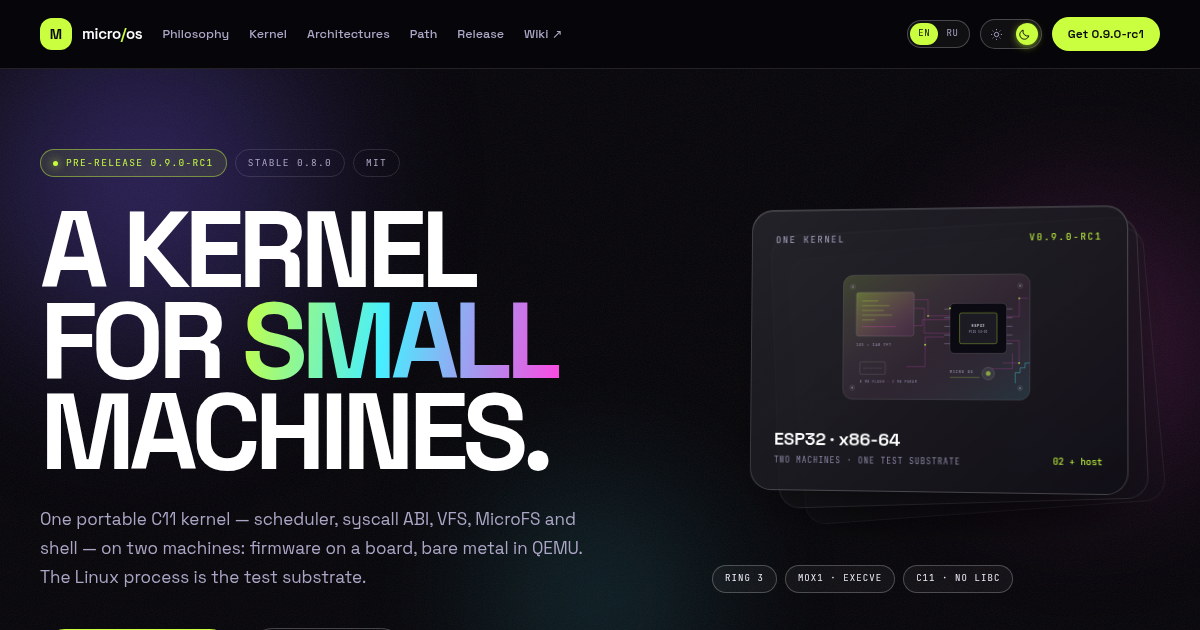
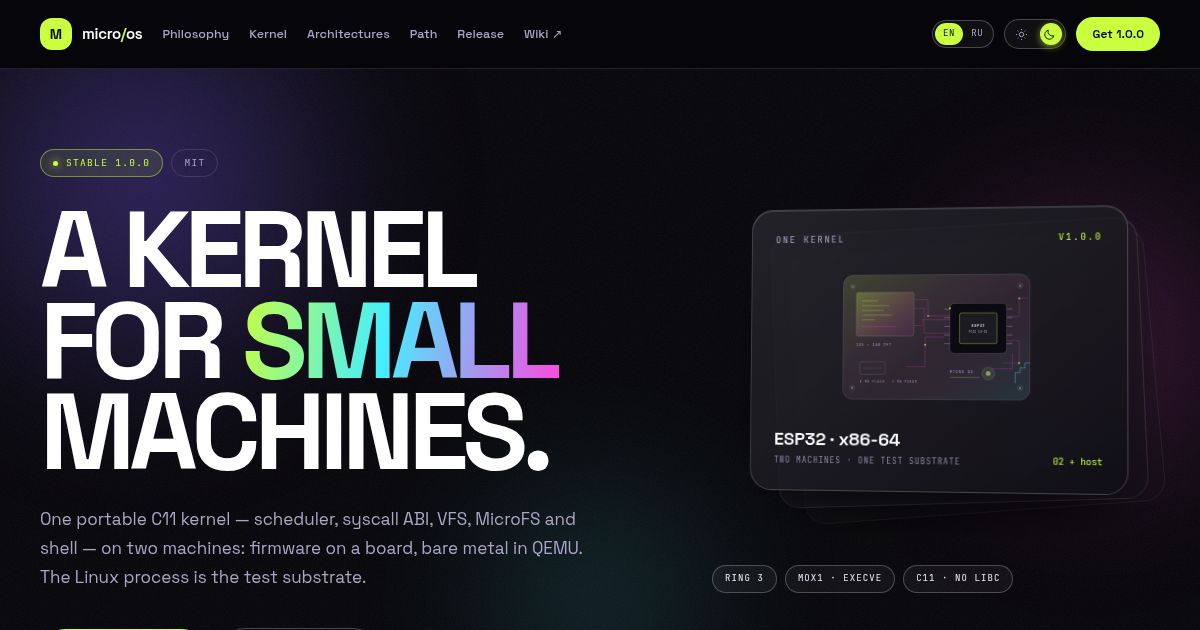
site: publish v1.0.0
The first major replaces the 0.9 candidate: stable badge, no last-stable
chip, 22 Nov 2026, the seven release assets including the signature and
public key, and notes about frozen contracts, the two machines, signed
images and the 600-second sessions.

Timeline 1.0 becomes a stable milestone. What's next is 1.0.x (safe
update with rollback, SMP, progs and mmap on the ESP32, /etc settings)
and 2.0 (the user-managed machine). The x86-64 card finally drops the
'no higher half' limit and lists it as shipped.

diff --git a/src/i18n.tsx b/src/i18n.tsx
@@ -16,7 +16,7 @@ const en = {
   meta: {
     title: "Micro OS — a kernel for small machines",
     description:
-      "A portable C11 kernel for small machines: scheduler, syscall ABI, VFS, MicroFS and a shell on ESP32 and bare-metal x86-64, with a Linux-process test substrate. Latest: v0.9.0-rc1.",
+      "A portable C11 kernel for small machines: scheduler, syscall ABI, VFS, MicroFS and a shell on ESP32 and bare-metal x86-64, with a Linux-process test substrate. Latest: v1.0.0.",
     ogTitle: "Micro OS — a kernel for small machines",
     ogDescription:
       "One portable C11 kernel. The same scheduler, VFS and shell on an ESP32 board and bare-metal x86-64; the Linux process is the test substrate.",
@@ -41,7 +41,6 @@ const en = {
     stackLabel: "Two machines and a test substrate: ESP32, x86-64, host",
   },
   hero: {
-    statusPre: "pre-release",
     statusStable: "stable",
     statusLicense: "MIT",
     titleA: "A kernel",
@@ -167,6 +166,7 @@ const en = {
         ],
         works: [
           "IDT/PIT, VGA text, PS/2 and COM1",
+          "higher half at 0xFFFFFFFF80000000",
           "MicroFS on a disk that survives a reset",
           "execve, page tables, copy-on-write fork and EFAULT",
           "NX/W^X: text RX, data and stacks NX",
@@ -174,7 +174,7 @@ const en = {
           "ARP/IPv4/ICMP/UDP/TCP, a DNS cache and httpd",
         ],
         limits: [
-          "no higher half, SMEP/SMAP or PCID yet",
+          "no SMEP/SMAP or PCID yet",
           "no SMP/APIC: one core for now",
           "no TLS: LAN only",
           "the kernel has no libc under it, by design",
@@ -265,10 +265,10 @@ const en = {
       },
       {
         version: "1.0",
-        title: "The gate",
-        body: "Plan: an image signature checked by the boot, the higher half, a correct single-core kernel and four weeks of soak; migration of 0.x volumes and /etc. After 1.0: a safe update with rollback, SMP, progs and mmap on the ESP32.",
-        tag: "plan",
-        planned: true,
+        title: "The first major",
+        body: "Contracts frozen, two machines, signed images with SHA-256 and Ed25519, and 600-second sessions on x86-64, the board and the host.",
+        tag: "stable",
+        planned: false,
       },
     ],
   },
@@ -353,22 +353,22 @@ const en = {
     cards: [
       {
         phase: "now",
-        title: "v0.9.0-rc1",
-        body: "The release candidate: MicroFS fsck -y, task limits, frozen ABI/MOX1, a reproducible image and 82% coverage, board sleep/IR/sound/factory reset, and a 600-second soak. Last stable: 0.8.0.",
-        status: "pre-release",
+        title: "v1.0.0",
+        body: "The first major: contracts frozen, two machines, signed images, and 600-second sessions with zero errors.",
+        status: "stable",
         current: true,
       },
       {
         phase: "next",
-        title: "0.9.0 final",
-        body: "Fixes found by the candidate, then the final of 0.9 if the checks agree. No new promises, no dates.",
+        title: "1.0.x",
+        body: "After the gate: a safe update with rollback, SMP, the progs partition and mmap on the ESP32, and /etc settings (K10). Planned, no dates.",
         status: "plan",
         current: false,
       },
       {
-        phase: "1.0",
-        title: "1.0.0",
-        body: "An image signature the boot checks, the higher half, a correct single-core kernel, and four weeks of soak; migration of 0.x volumes and /etc. After 1.0: a safe update with rollback, SMP, the progs partition and mmap on the ESP32. Planned, no dates.",
+        phase: "2.0",
+        title: "A user-managed machine",
+        body: "The next major belongs to its user. Planned, no dates.",
         status: "plan",
         current: false,
       },
@@ -385,24 +385,24 @@ const en = {
   },
   release: {
     kicker: "08 — the release",
-    date: "21 Nov 2026",
-    pre: "pre-release",
-    lastStable: "last stable",
-    lead: "The first candidate of 0.9. One image for the board, one bundle for QEMU — the kernel is the same in both.",
+    date: "22 Nov 2026",
+    lead: "The first major. One image for the board, one bundle for QEMU — the kernel is the same in both.",
     notes: [
-      "MicroFS fsck -y repairs a broken volume; task limits cap memory, CPU and descriptors per task.",
-      "The ABI, MOX1 and the port contract are written down and frozen by tests; the image reproduces byte-for-byte, and kernel coverage is 82%.",
-      "The board sleeps to an alarm and wakes, has an IR transmitter and a sound detector, and a factory reset that writes the defaults of /etc back.",
-      "A 600-second soak on x86-64, the ESP32 and the host substrate (under TSan): zero errors.",
+      "The ABI, MOX1, MicroFS and port contracts are frozen and recorded by tests.",
+      "Two machines: the ESP32 runs programs without an MMU and handles sleep, alarm, IR and sound; x86-64 has the higher half, ring 3, NX/W^X, the network and the disk.",
+      "Signed images: SHA-256 + Ed25519. The x86-64 loader verifies before the first byte; the board checks its app trailer at boot and reports the result — an electronic check, not secure boot.",
+      "600-second sessions on x86-64 and the board, with the host under TSan: zero errors.",
     ],
     download: "Download .bin",
     github: "GitHub release",
     assets: [
-      { name: "MicroOS-0.9.0-rc1.bin", note: "the board, one image at 0x0", size: "1021 KiB" },
-      { name: "MicroOS-x86_64-0.9.0-rc1.tar.gz", note: "the kernel and loader for QEMU", size: "100 KiB" },
-      { name: "micro_os.bin", note: "the application image alone", size: "957 KiB" },
-      { name: "flash.sh", note: "writes the image; NVS and MicroFS stay", size: "2.3 KiB" },
-      { name: "checksums.txt", note: "SHA-256 of every binary", size: "334 B" },
+      { name: "MicroOS-1.0.0.bin", note: "the board, one image at 0x0", size: "1031 KiB" },
+      { name: "MicroOS-x86_64-1.0.0.tar.gz", note: "the kernel and loader for QEMU", size: "108 KiB" },
+      { name: "micro_os.bin", note: "the application image alone", size: "967 KiB" },
+      { name: "MicroOS-1.0.0.bin.sig", note: "Ed25519 signature of the board image", size: "120 B" },
+      { name: "microos-sign.pub", note: "the public key", size: "65 B" },
+      { name: "flash.sh", note: "writes the image; NVS and MicroFS stay", size: "3.2 KiB" },
+      { name: "checksums.txt", note: "SHA-256 of every binary", size: "678 B" },
     ],
     flash:
       "flash.sh writes the image at 0x0; NVS and MicroFS stay. The release keeps no executable bit — chmod +x first.",
@@ -432,7 +432,7 @@ const ru: Dictionary = {
   meta: {
     title: "Micro OS — ядро для малых машин",
     description:
-      "Портируемое ядро на C11 для малых машин: планировщик, ABI системных вызовов, VFS, MicroFS и shell на ESP32 и на голом x86-64; процесс Linux — тестовый субстрат. Актуальное: v0.9.0-rc1.",
+      "Портируемое ядро на C11 для малых машин: планировщик, ABI системных вызовов, VFS, MicroFS и shell на ESP32 и на голом x86-64; процесс Linux — тестовый субстрат. Актуальное: v1.0.0.",
     ogTitle: "Micro OS — ядро для малых машин",
     ogDescription:
       "Одно портируемое ядро на C11. Тот же планировщик, VFS и shell на плате ESP32 и на голом x86-64; процесс Linux — субстрат тестов.",
@@ -457,7 +457,6 @@ const ru: Dictionary = {
     stackLabel: "Две машины и субстрат тестов: ESP32, x86-64, host",
   },
   hero: {
-    statusPre: "пре-релиз",
     statusStable: "стабильный",
     statusLicense: "MIT",
     titleA: "Ядро для",
@@ -583,6 +582,7 @@ const ru: Dictionary = {
         ],
         works: [
           "IDT/PIT, текстовый VGA, PS/2 и COM1",
+          "higher half по адресу 0xFFFFFFFF80000000",
           "MicroFS на диске, который переживает reset",
           "execve, свои page tables, fork с copy-on-write и EFAULT",
           "NX/W^X: text RX, data и стеки NX",
@@ -590,7 +590,7 @@ const ru: Dictionary = {
           "ARP/IPv4/ICMP/UDP/TCP, кэш DNS и httpd",
         ],
         limits: [
-          "пока нет higher half, SMEP/SMAP и PCID",
+          "пока нет SMEP/SMAP и PCID",
           "нет SMP/APIC: пока одно ядро",
           "нет TLS: только LAN",
           "под ядром нет libc — так задумано",
@@ -681,10 +681,10 @@ const ru: Dictionary = {
       },
       {
         version: "1.0",
-        title: "Ворота",
-        body: "План: подпись образа, которую проверяет boot, higher half, корректное одноядерное ядро и четыре недели обкатки; миграция томов 0.x и /etc. После 1.0: безопасное обновление с rollback, SMP, раздел progs и mmap на ESP32.",
-        tag: "план",
-        planned: true,
+        title: "Первый мажор",
+        body: "Контракты заморожены, две машины, подписанные образы SHA-256 и Ed25519 и 600-секундные сессии на x86-64, плате и host.",
+        tag: "stable",
+        planned: false,
       },
     ],
   },
@@ -769,22 +769,22 @@ const ru: Dictionary = {
     cards: [
       {
         phase: "сейчас",
-        title: "v0.9.0-rc1",
-        body: "Кандидат релиза: MicroFS fsck -y, лимиты задач, заморозка ABI/MOX1, воспроизводимый образ и покрытие 82 %, сон/ИК/звук/factory reset на плате и 600-секундная кампания. Последний стабильный — 0.8.0.",
-        status: "пре-релиз",
+        title: "v1.0.0",
+        body: "Первый мажор: контракты заморожены, две машины, подписанные образы и 600-секундные сессии без ошибок.",
+        status: "стабильный",
         current: true,
       },
       {
         phase: "дальше",
-        title: "0.9.0 final",
-        body: "Исправления, которые найдёт кандидат, затем финал 0.9, если проверки согласятся. Без новых обещаний и без дат.",
+        title: "1.0.x",
+        body: "После ворот: безопасное обновление с rollback, SMP, раздел progs и mmap на ESP32, настройки /etc (K10). План, без дат.",
         status: "план",
         current: false,
       },
       {
-        phase: "1.0",
-        title: "1.0.0",
-        body: "Подпись образа, которую проверяет boot, higher half, корректное одноядерное ядро и четыре недели обкатки; миграция томов 0.x и /etc. После 1.0: безопасное обновление с rollback, SMP, раздел progs и mmap на ESP32. План, без дат.",
+        phase: "2.0",
+        title: "Машина пользователя",
+        body: "Следующий мажор: машиной управляет пользователь. План, без дат.",
         status: "план",
         current: false,
       },
@@ -801,24 +801,24 @@ const ru: Dictionary = {
   },
   release: {
     kicker: "08 — релиз",
-    date: "21 ноя 2026",
-    pre: "пре-релиз",
-    lastStable: "последний стабильный релиз",
-    lead: "Первый кандидат 0.9. Один образ для платы, один архив для QEMU — ядро в них одно и то же.",
+    date: "22 ноя 2026",
+    lead: "Первый мажор. Один образ для платы, один архив для QEMU — ядро в них одно и то же.",
     notes: [
-      "MicroFS fsck -y чинит сломанный том; лимиты задач ограничивают память, CPU и дескрипторы на задачу.",
-      "ABI, MOX1 и контракт порта записаны и заморожены тестами; образ воспроизводится байт-в-байт, покрытие ядра — 82 %.",
-      "Плата засыпает до будильника и просыпается, у неё есть ИК-передатчик и детектор звука, а factory reset возвращает значения /etc по умолчанию.",
-      "600-секундная кампания на x86-64, ESP32 и host-субстрате (под TSan): ноль ошибок.",
+      "Контракты ABI, MOX1, MicroFS и порта заморожены и записаны тестами.",
+      "Две машины: ESP32 исполняет программы без MMU и умеет сон, будильник, ИК и звук; у x86-64 — higher half, ring 3, NX/W^X, сеть и диск.",
+      "Подписанные образы: SHA-256 + Ed25519. Загрузчик x86-64 проверяет до первого байта; плата сверяет trailer приложения при загрузке и показывает результат — электронная проверка, не secure boot.",
+      "600-секундные сессии на x86-64 и плате, host — под TSan: ноль ошибок.",
     ],
     download: "Скачать .bin",
     github: "Релиз на GitHub",
     assets: [
-      { name: "MicroOS-0.9.0-rc1.bin", note: "плата, один образ по адресу 0x0", size: "1021 КиБ" },
-      { name: "MicroOS-x86_64-0.9.0-rc1.tar.gz", note: "ядро и загрузчик для QEMU", size: "100 КиБ" },
-      { name: "micro_os.bin", note: "образ приложения отдельно", size: "957 КиБ" },
-      { name: "flash.sh", note: "пишет образ; NVS и MicroFS остаются", size: "2.3 КиБ" },
-      { name: "checksums.txt", note: "SHA-256 каждого бинарника", size: "334 Б" },
+      { name: "MicroOS-1.0.0.bin", note: "плата, один образ по адресу 0x0", size: "1031 КиБ" },
+      { name: "MicroOS-x86_64-1.0.0.tar.gz", note: "ядро и загрузчик для QEMU", size: "108 КиБ" },
+      { name: "micro_os.bin", note: "образ приложения отдельно", size: "967 КиБ" },
+      { name: "MicroOS-1.0.0.bin.sig", note: "подпись Ed25519 образа платы", size: "120 Б" },
+      { name: "microos-sign.pub", note: "публичный ключ", size: "65 Б" },
+      { name: "flash.sh", note: "пишет образ; NVS и MicroFS остаются", size: "3.2 КиБ" },
+      { name: "checksums.txt", note: "SHA-256 каждого бинарника", size: "678 Б" },
     ],
     flash:
       "flash.sh пишет образ по адресу 0x0; NVS и MicroFS остаются. В релизе нет бита исполнения — сначала chmod +x.",

diff --git a/src/pages/KineticPage.tsx b/src/pages/KineticPage.tsx
@@ -15,7 +15,6 @@ import {
   WIKI_DEV_URL,
   WIKI_URL,
   kernelContract,
-  stableVersion,
   version,
 } from "../config";
 import { useLocale, type Locale } from "../i18n";
@@ -182,10 +181,7 @@ export default function KineticPage() {
                 className="flex flex-wrap items-center gap-2"
               >
                 <span className="inline-flex items-center gap-2 rounded-full border border-[color-mix(in_srgb,var(--accent)_45%,transparent)] bg-[color-mix(in_srgb,var(--accent)_10%,transparent)] px-2.5 py-1 font-mono text-[8px] uppercase tracking-[0.12em] text-[var(--accent)] sm:px-3 sm:py-1.5 sm:text-[9.5px] sm:tracking-[0.14em]">
-                  <span className="term-dot" /> {t.hero.statusPre} {version}
-                </span>
-                <span className="rounded-full border border-[var(--line)] px-2.5 py-1 font-mono text-[8px] uppercase tracking-[0.12em] text-[var(--muted)] sm:px-3 sm:py-1.5 sm:text-[9.5px] sm:tracking-[0.14em]">
-                  {t.hero.statusStable} {stableVersion}
+                  <span className="term-dot" /> {t.hero.statusStable} {version}
                 </span>
                 <span className="rounded-full border border-[var(--line)] px-2.5 py-1 font-mono text-[8px] uppercase tracking-[0.12em] text-[var(--muted)] sm:px-3 sm:py-1.5 sm:text-[9.5px] sm:tracking-[0.14em]">
                   {t.hero.statusLicense}
@@ -782,10 +778,7 @@ export default function KineticPage() {
                   <SectionKicker>{t.release.kicker}</SectionKicker>
                   <div className="flex items-center gap-2">
                     <span className="inline-flex items-center gap-2 rounded-full border border-[color-mix(in_srgb,var(--accent)_40%,transparent)] px-3 py-1.5 font-mono text-[8.5px] uppercase tracking-[0.12em] text-[var(--accent)]">
-                      <span className="term-dot" /> {t.release.pre}
-                    </span>
-                    <span className="rounded-full border border-[var(--line)] px-3 py-1.5 font-mono text-[8.5px] uppercase tracking-[0.12em] text-[var(--muted)]">
-                      {t.release.lastStable}: v{stableVersion}
+                      <span className="term-dot" /> {t.hero.statusStable}
                     </span>
                     <span className="rounded-full border border-[var(--line)] px-3 py-1.5 font-mono text-[8.5px] uppercase tracking-[0.12em] text-[var(--muted)]">
                       {t.release.date}

diff --git a/src/config.ts b/src/config.ts
@@ -22,14 +22,14 @@ export const RELEASES_URL = `${REPO_URL}/releases`;
 export const DOCS_URL = `${REPO_URL}/tree/mainline/docs`;
 export const LICENSE_URL = `${REPO_URL}/blob/mainline/LICENSE`;
 
-export const RELEASE_TAG = "v0.9.0-rc1";
+export const RELEASE_TAG = "v1.0.0";
 export const RELEASE_URL = `${REPO_URL}/releases/tag/${RELEASE_TAG}`;
-export const DOWNLOAD_URL = `${REPO_URL}/releases/download/${RELEASE_TAG}/MicroOS-0.9.0-rc1.bin`;
-export const X86_URL = `${REPO_URL}/releases/download/${RELEASE_TAG}/MicroOS-x86_64-0.9.0-rc1.tar.gz`;
+export const DOWNLOAD_URL = `${REPO_URL}/releases/download/${RELEASE_TAG}/MicroOS-1.0.0.bin`;
+export const X86_URL = `${REPO_URL}/releases/download/${RELEASE_TAG}/MicroOS-x86_64-1.0.0.tar.gz`;
 
 export const OG_IMAGE_URL = `${SITE_URL}og.png`;
 
-export const version = "0.9.0-rc1";
-export const stableVersion = "0.8.0";
-export const releaseDate = "21 Nov 2026";
+export const version = "1.0.0";
+export const stableVersion = "1.0.0";
+export const releaseDate = "22 Nov 2026";
 export const kernelContract = "1.8";

diff --git a/index.html b/index.html
@@ -6,7 +6,7 @@
     <meta name="color-scheme" content="dark light" />
     <meta
       name="description"
-      content="A portable C11 kernel for small machines: scheduler, syscall ABI, VFS, MicroFS and a shell on ESP32 and bare-metal x86-64, with a Linux-process test substrate. Latest: v0.9.0-rc1."
+      content="A portable C11 kernel for small machines: scheduler, syscall ABI, VFS, MicroFS and a shell on ESP32 and bare-metal x86-64, with a Linux-process test substrate. Latest: v1.0.0."
     />
     <meta name="theme-color" content="#060509" />
     <meta name="robots" content="index, follow" />

diff --git a/src/components/ConsoleDemo.tsx b/src/components/ConsoleDemo.tsx
@@ -3,7 +3,7 @@ import { useEffect, useRef, useState } from "react";
 
 const LINES = [
   "microos> uname",
-  "MicroOS 0.9.0-rc1 x86_64 (build ...)",
+  "MicroOS 1.0.0 x86_64 (build ...)",
   "microos> exec hello",
   "PROGRAM: hello from /bin",
   "PROGRAM: cpl 3",

diff --git a/README.md b/README.md
@@ -48,7 +48,7 @@ before the first paint by the inline script in `index.html`.
 
 The architecture copy follows ADR 0004: ESP32 and x86-64 are the two machines; `host` is the Linux-process test substrate, not a third machine or a product target.
 
-Facts come from the `v0.9.0-rc1` tree and the published release. “Next” and
+Facts come from the `v1.0.0` tree and the published release. “Next” and
 “plan” are marked as such; there are no invented dates.
 
 ## Addresses
